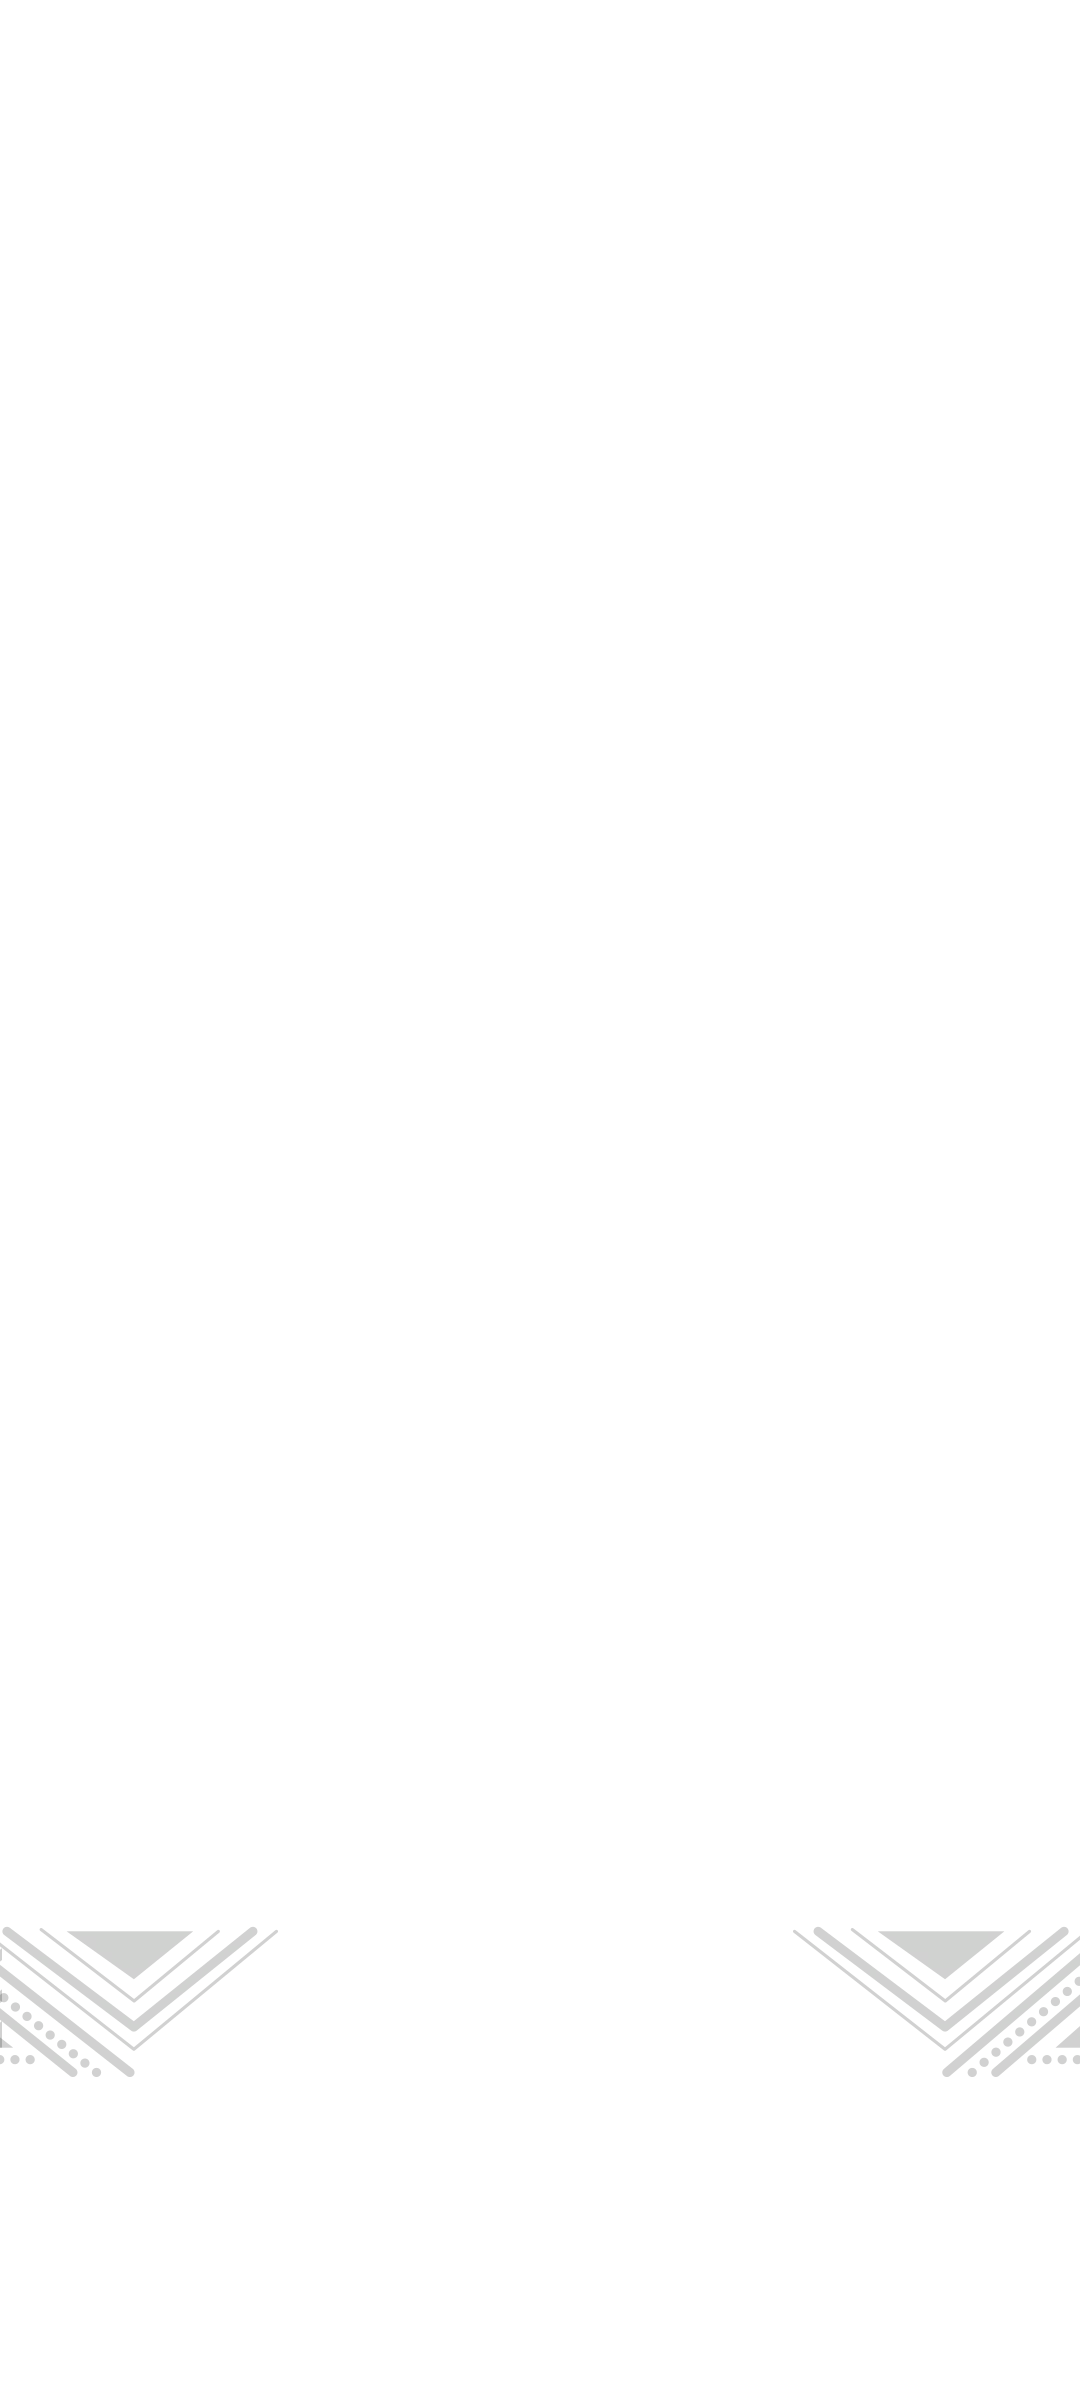
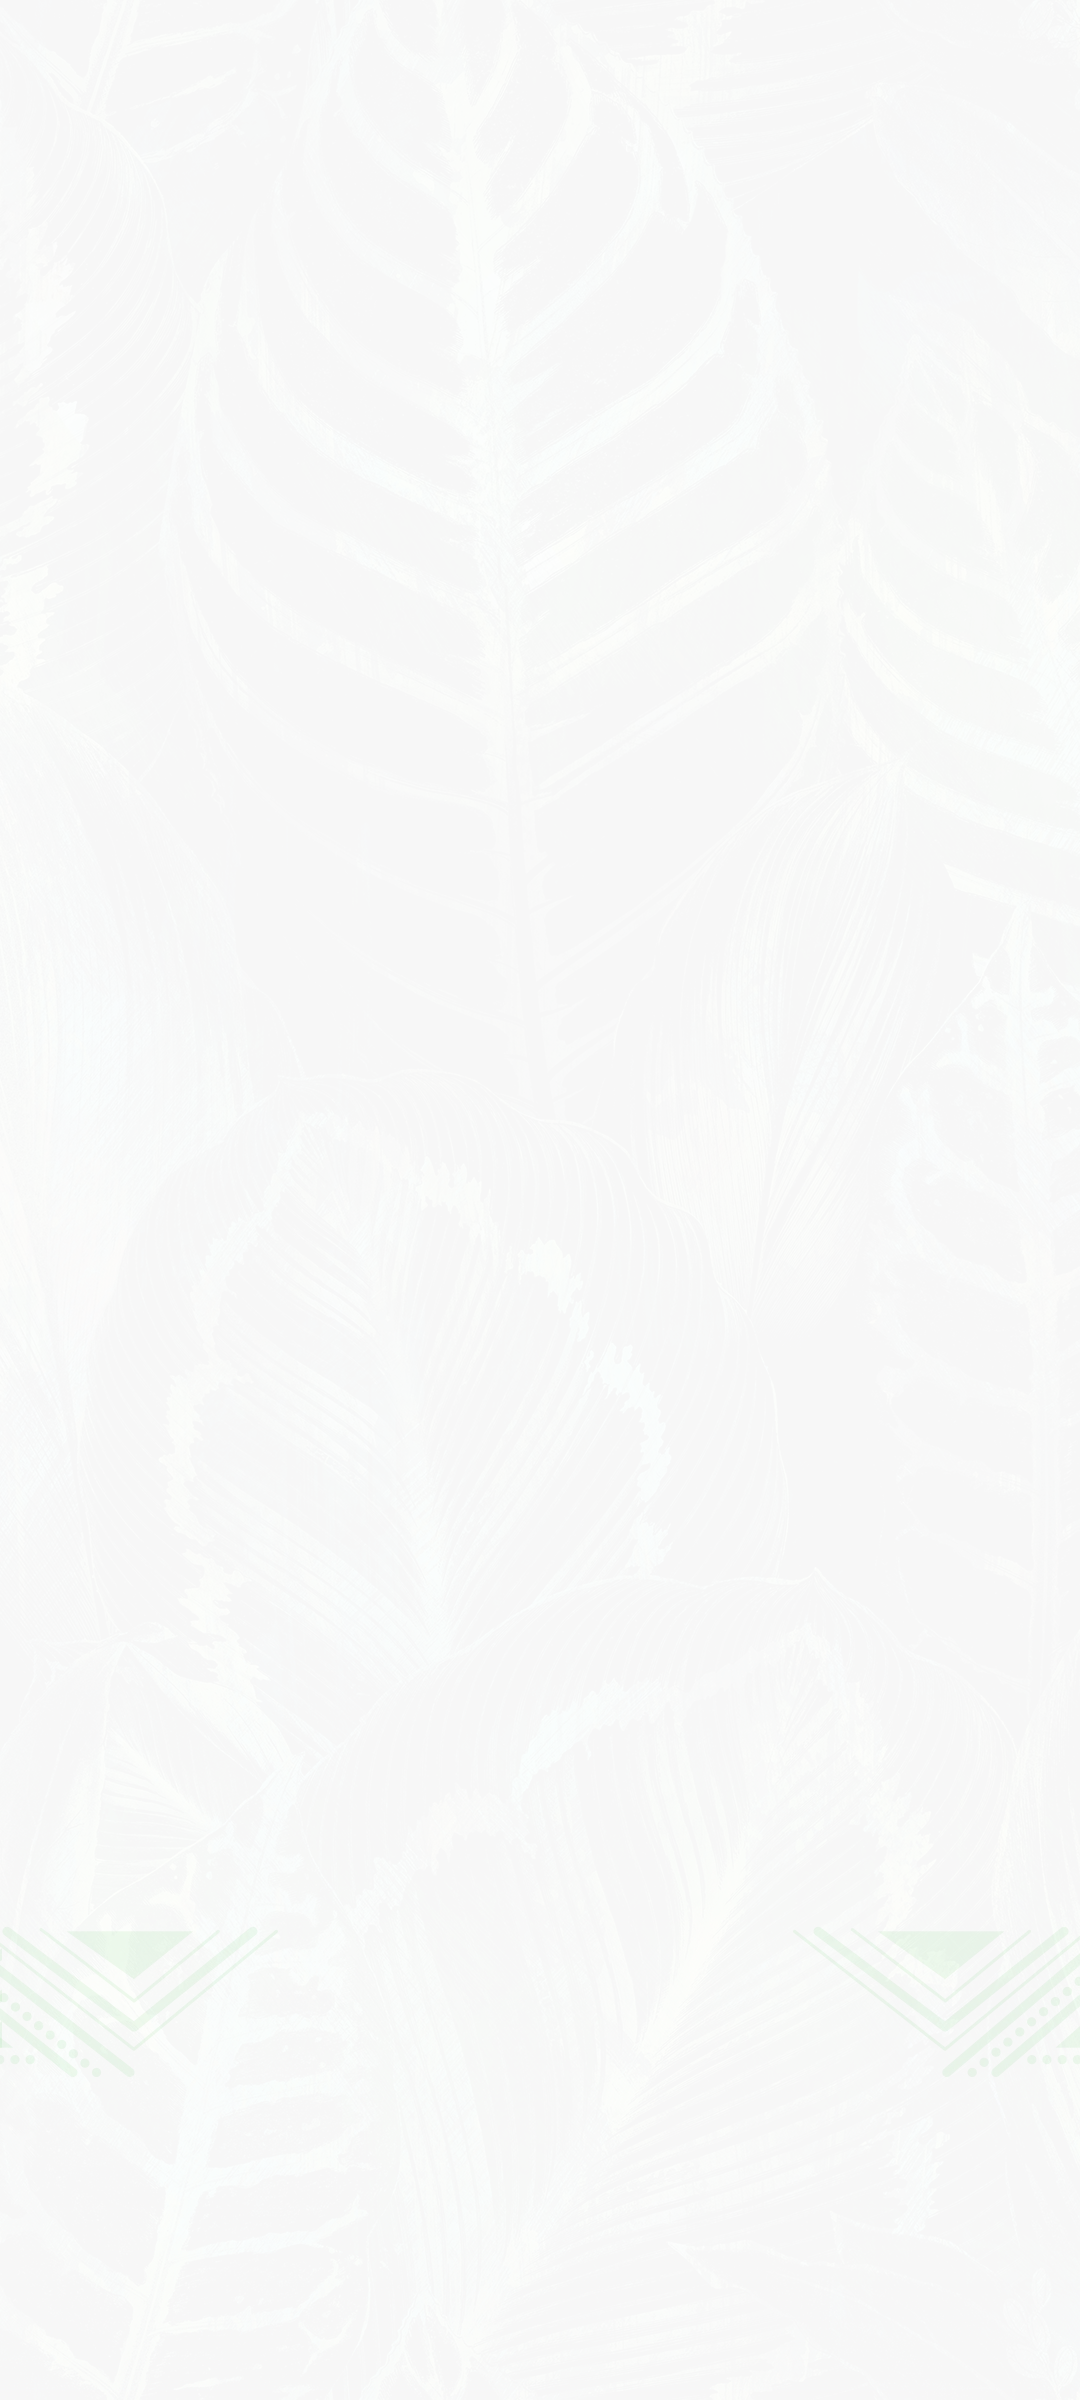
Ajuste Seção Kits

Changed region(s): [[0.7639, 0.7812, 1.0, 0.875], [0.0, 0.7812, 0.2139, 0.875], [0.2139, 0.7812, 0.2444, 0.8125]]

diff --git a/public/assets/home/applicators/background/README.md b/public/assets/home/applicators/background/README.md
@@ -2,18 +2,20 @@
 
 Exporte as versões em WebP sRGB usando exatamente estes nomes:
 
-- `medicina-sagrada-acessorios-background-desktop.webp` — 2400 × 1200 px
+- `medicina-sagrada-acessorios-background-desktop.webp` — 2400 × 1200 px, com transparência (canal alpha)
 - `medicina-sagrada-acessorios-background-mobile.webp` — 1200 × 1800 px, com transparência (canal alpha)
 
 Os arquivos devem ser salvos nesta mesma pasta:
 
 `public/assets/home/applicators/background/`
 
-A imagem cobre toda a seção com `background-size: cover` e acompanha a rolagem normal da página. No mobile, exporte o WebP preservando o canal alpha, sem achatar a arte sobre um fundo branco. O branco atual permanece por baixo da transparência e também funciona como cor de segurança enquanto o arquivo ainda não existir ou estiver carregando.
+A imagem cobre toda a seção com `background-size: cover` e acompanha a rolagem normal da página. Exporte ambos os WebPs preservando o canal alpha, sem achatar a arte sobre um fundo branco. O branco atual permanece por baixo da transparência e também funciona como cor de segurança enquanto o arquivo ainda não existir ou estiver carregando.
+
+Os arquivos são independentes: desktop acima de 800 px de largura e mobile até 800 px (incluindo tablets estreitos). Não inclua textos ou os cards de produtos na arte; eles já fazem parte da página. Use os nomes exatamente em minúsculas, inclusive a extensão `.webp`, para funcionar também na Vercel.
 
 ## Área segura
 
-- Desktop: mantenha detalhes essenciais fora das áreas ocupadas pelo texto à esquerda e pelo mosaico de cards à direita.
+- Desktop: concentre os elementos decorativos nas bordas e mantenha a área atrás do texto à esquerda leve ou transparente; o mosaico à direita encobre parte do fundo.
 - Mobile: considere o recorte vertical, distribua a composição por toda a altura e mantenha a informação visual importante nos 70% centrais.
 - Prefira uma composição com contraste discreto atrás dos textos e dos cards para preservar a leitura.
 - Peso recomendado: até 700 KB no desktop e até 500 KB no mobile.
